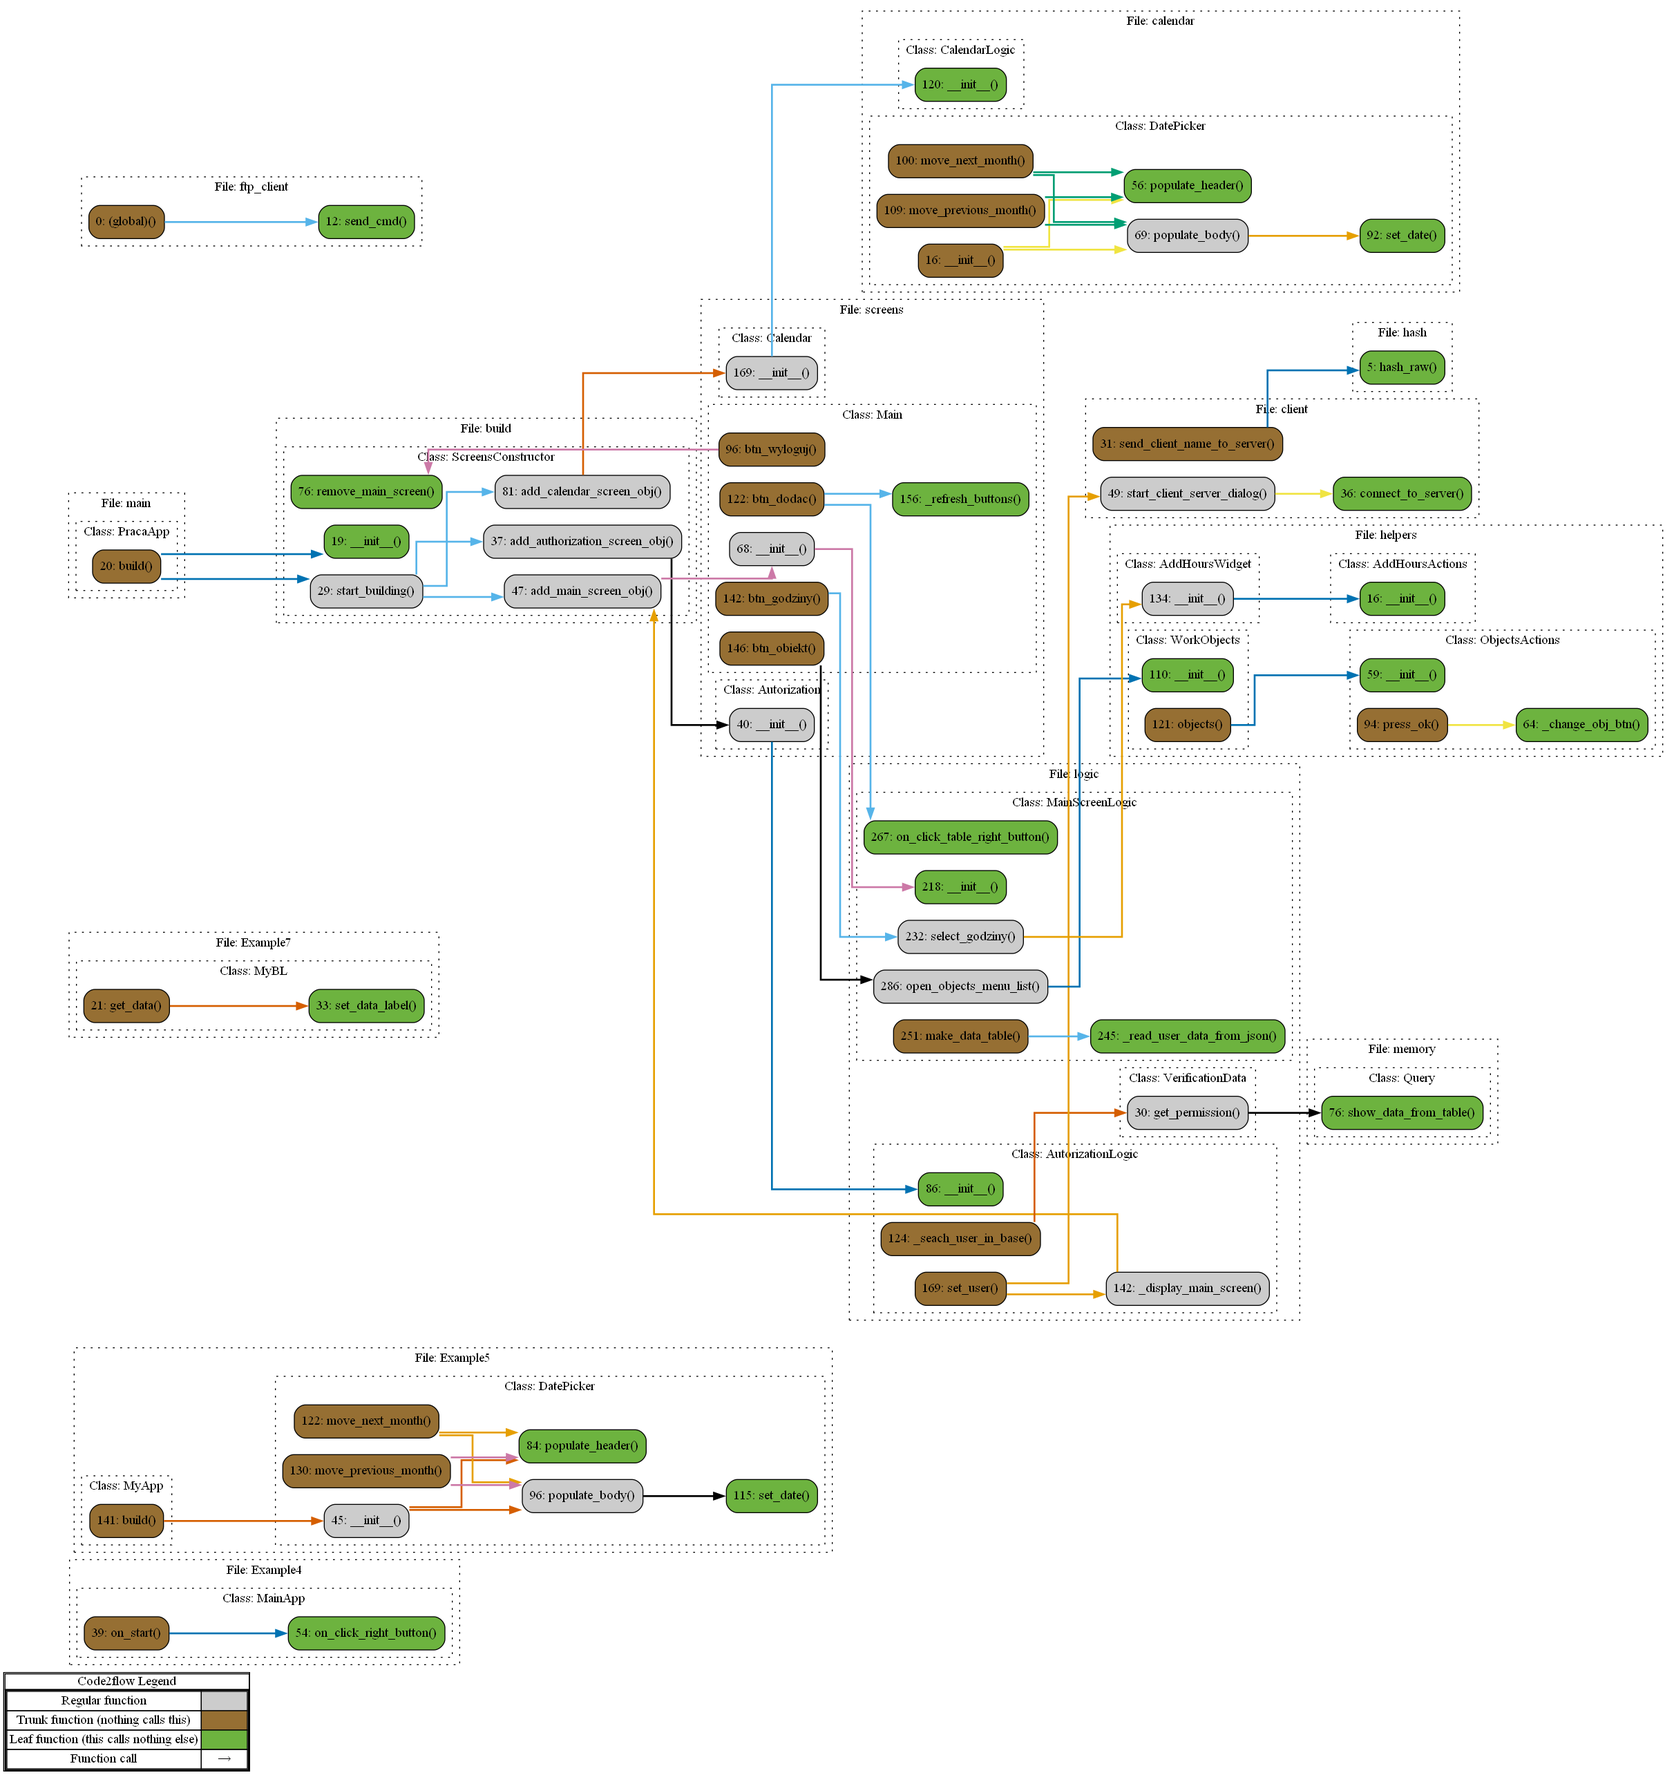
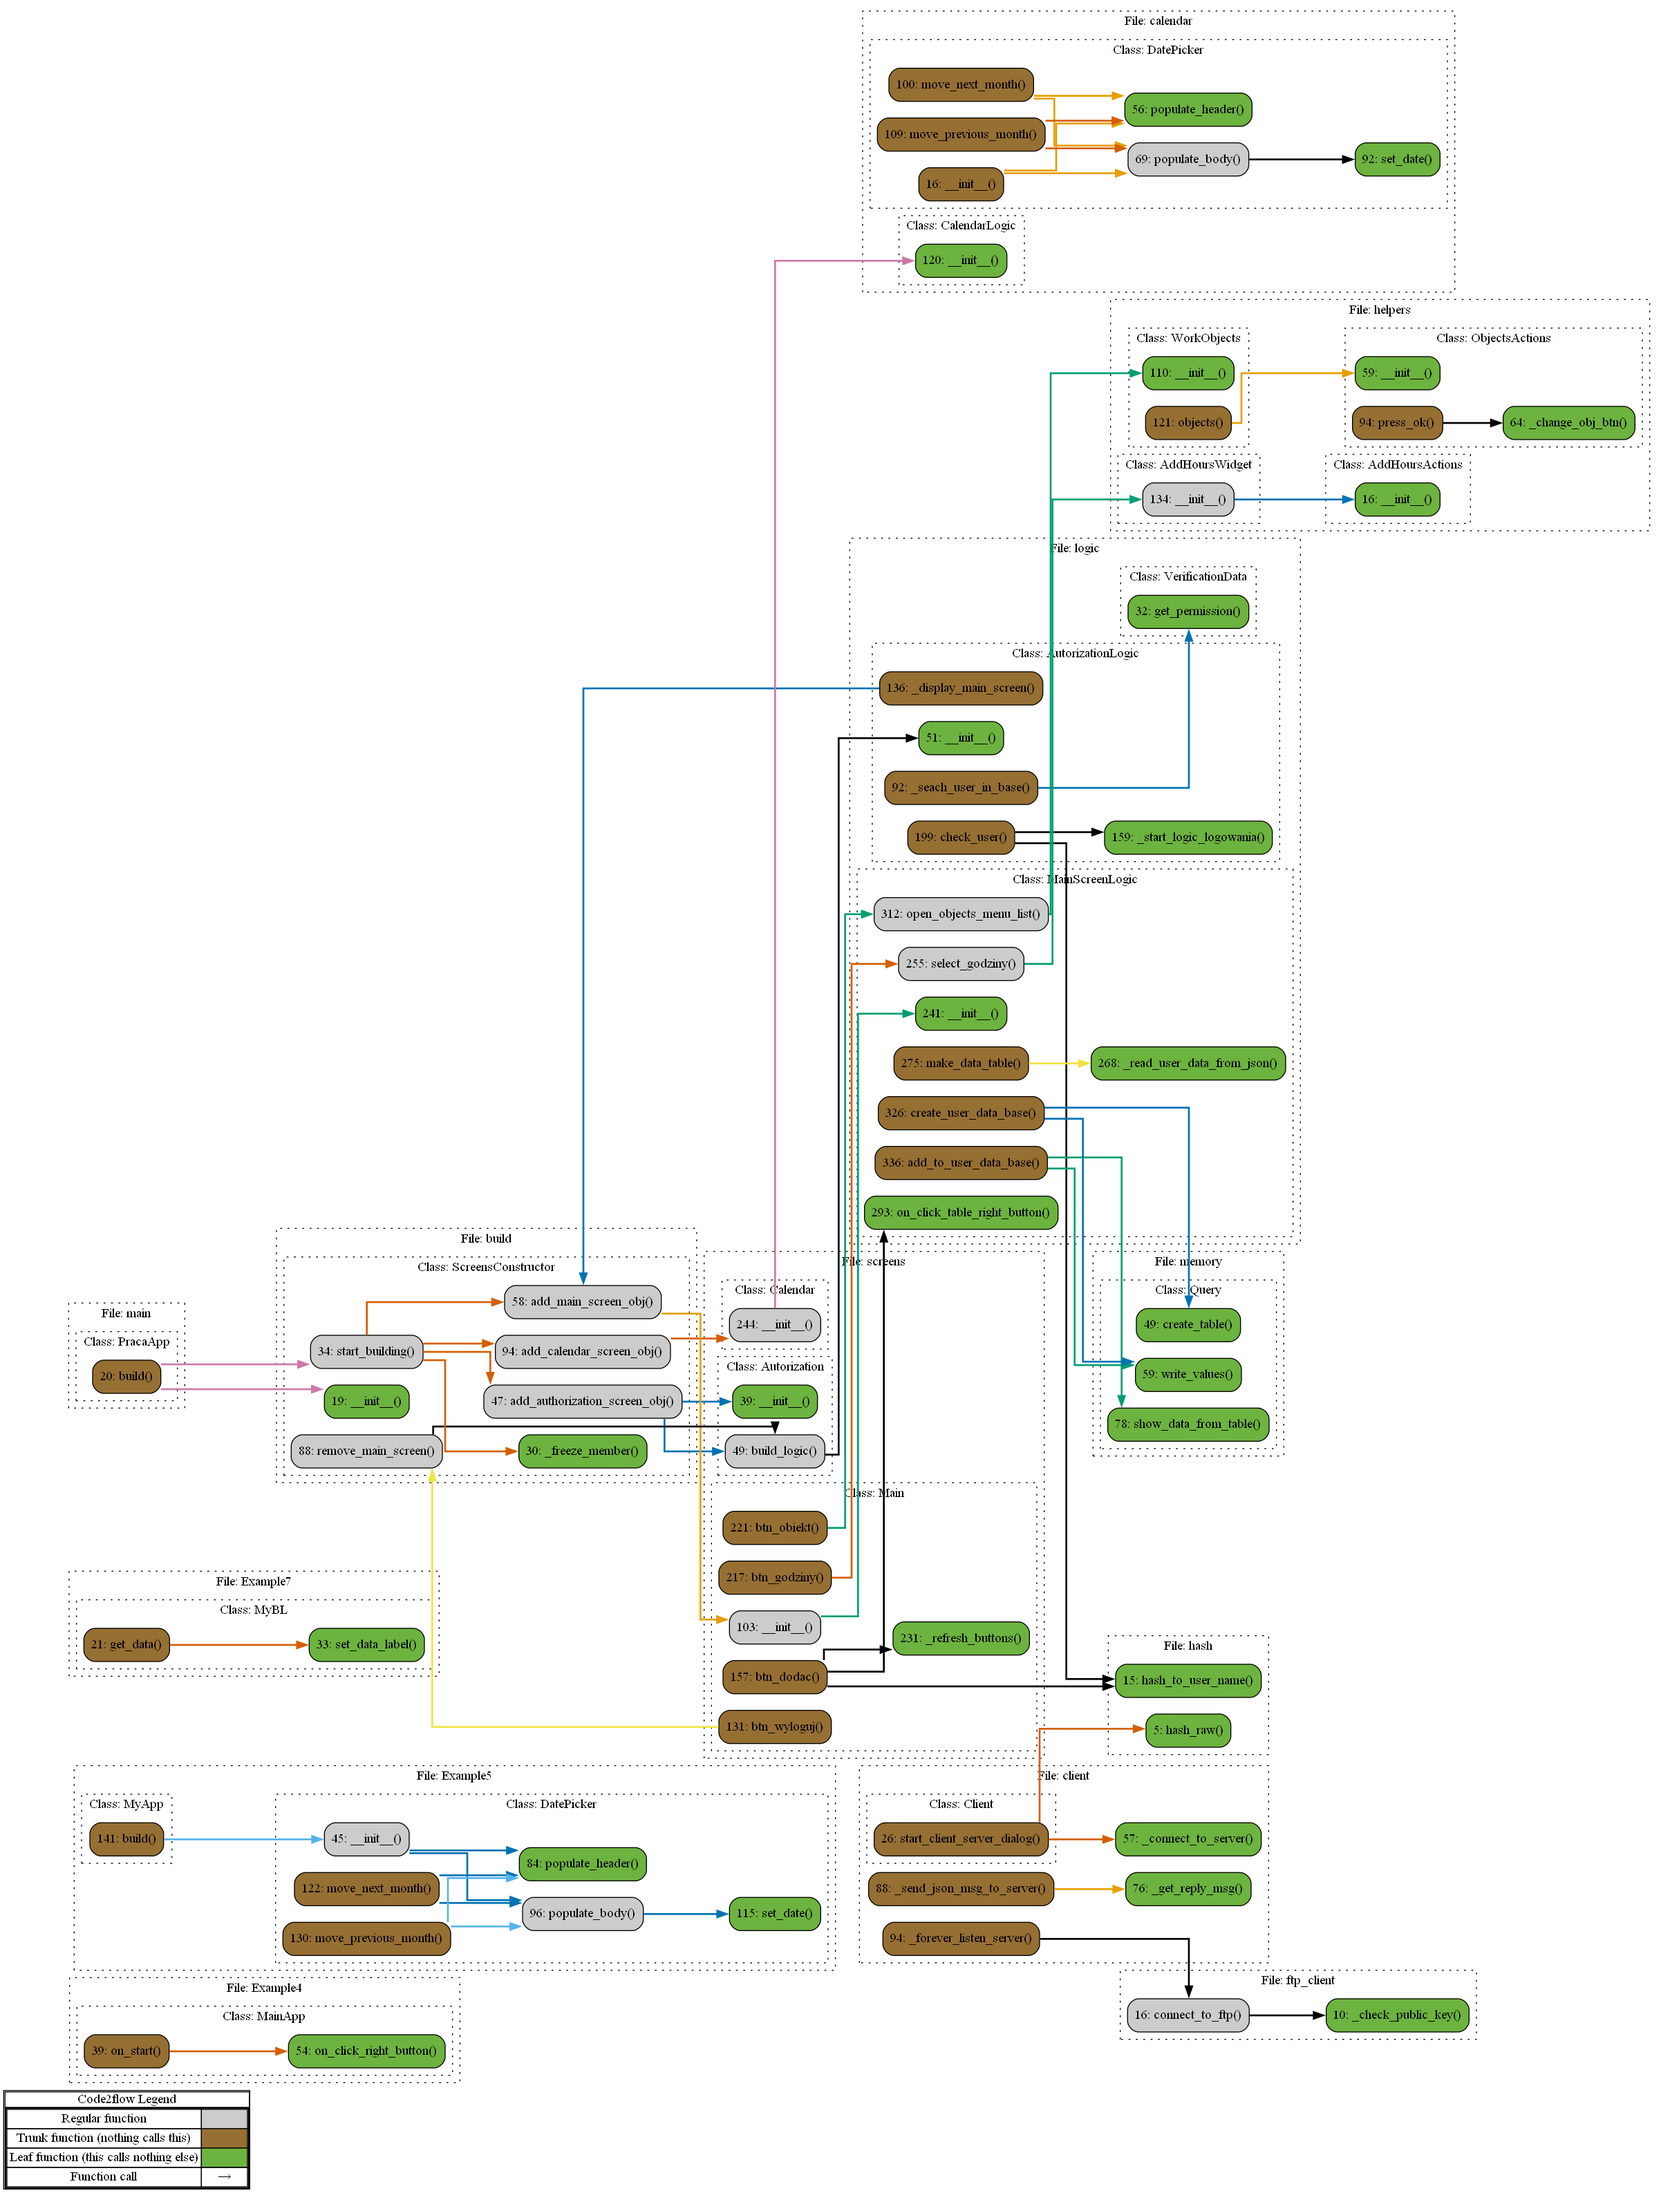
v0.0.91

diff --git a/dev/action/build.py b/dev/action/build.py
@@ -1,6 +1,9 @@
 import threading
+import os
+import json
 
 import dev.action as action
+import dev.config as config
 from dev.view.screens import Autorization, Main, Calendar
 
 
@@ -23,16 +26,57 @@ class ScreensConstructor:
         # Мои экраны
         self.authorization_screen = None # authorization_screen
         self.main_screen = None # main_screen
-        self.popup_screen = None # подвижная вкладка MDBackdropFrontLayer
         self.calendar = None # calendar_screen
+        # Отдельные виджеты
+        self.popup_screen = None # подвижная вкладка MDBackdropFrontLayer
+        # Remember me
+        self.freeze_file: json = None
+        self.path_to_freeze_file = None
+
+    def _freeze_member(self) -> bool:
+        action.logger.info('build.py: class ScreensConstructor _freeze_member()')
+        # список всех файлов в папке
+        files = os.listdir(config.PATH_TO_REMEMBER_ME)
+        # фильтрация файлов по расширению
+        json_files = [file for file in files if file.endswith('.json')]
+        
+        if len(json_files) == 0:
+            action.logger.info(f'DEBUG: Have NOT json files')
+            return False
+        
+        if len(json_files) == 1:
+            action.logger.info(f'DEBUG: Have json file {json_files[0]}')
+            self.path_to_freeze_file = config.PATH_TO_REMEMBER_ME + f'/{json_files[0]}'
+            with open(self.path_to_freeze_file, 'r') as file:
+                self.freeze_file = json.load(file)
+            return True
+
+        if len(json_files) > 1:
+            action.logger.info(f'DEBUG: Have json files {json_files}')
+            return False # если нет файлов или нужно выбирать
 
     def start_building(self):
-        "Первый запуск системы"
+        """
+        # Первый запуск системы
+        Последовательность создания экранов так же важена.
+        Вначале создается экран который и будет отображаться, а уже под ним создаются остальные
+        """
         action.logger.info('build.py: class ScreensConstructor start_building()')
-        self.add_authorization_screen_obj()
-        self.screen_manager.current = 'authorization_screen'
-        self.add_calendar_screen_obj()
-        self.add_main_screen_obj(user_name='', user_surname='', search_user_thread=None)
+
+        if self._freeze_member():
+            # если пользователь хочет чтобы приложение помнило его
+            # если в каталоге /db/freeze всего один файл
+            user_name = self.freeze_file['name']
+            user_surname = self.freeze_file['surname']
+            self.add_main_screen_obj(user_name=user_name, user_surname=user_surname, search_user_thread=None)
+            self.screen_manager.current = 'main_screen'
+            self.add_authorization_screen_obj()
+            self.add_calendar_screen_obj()
+        else:
+            self.add_authorization_screen_obj()
+            self.add_calendar_screen_obj()
+            self.add_main_screen_obj(user_name='', user_surname='', search_user_thread=None)
+            self.screen_manager.current = 'authorization_screen'
 
     def add_authorization_screen_obj(self):
         "Создаю и добавляю экран авторизации"
@@ -42,7 +86,7 @@ class ScreensConstructor:
                 screen_constructor = self,
                 screen_manager=self.screen_manager
             )
-        self.authorization_screen.build_logic()
+        self.authorization_screen.build_logic_object()
         self.screen_manager.add_widget(self.authorization_screen)
 
     def add_main_screen_obj( # main_screen
@@ -76,10 +120,17 @@ class ScreensConstructor:
             ###
 
     def remove_main_screen(self) -> None:
+        def remove_remember_me_file():
+            "Если есть файл, то удаляю"
+            action.logger.info('build.py: remove_main_screen() remove_remember_me_file()')
+            if os.path.isfile(self.path_to_freeze_file):
+                os.remove(self.path_to_freeze_file)
+
         action.logger.info('build.py: class ScreensConstructor remove_main_screen()')
         self.screen_manager.remove_widget(self.main_screen)
-        self.authorization_screen.build_logic()
+        self.authorization_screen.build_logic_object()
         self.main_screen = None
+        remove_remember_me_file()
 
     def add_calendar_screen_obj(self): # calendar_screen
         action.logger.info('build.py: class ScreensConstructor add_calendar_screen_obj()')

diff --git a/dev/action/logic.py b/dev/action/logic.py
@@ -96,11 +96,18 @@ class AutorizationLogic(VerificationData):
         """
         action.logger.info('logic.py: class AutorizationLogic(VerificationData) seach_user_in_base()')
         def remove_remember_me_file():
+            "Если есть файл, то удаляю"
             action.logger.info('logic.py: _seach_user_in_base() remove_remember_me_file()')
             path_to_json = config.PATH_TO_REMEMBER_ME + f'/{self.user_hash}.json'
             if os.path.isfile(path_to_json):
                 os.remove(path_to_json)
         
+        def write_remember_me_file():
+            self.screen_constructor.path_to_freeze_file = config.PATH_TO_REMEMBER_ME + f'/{self.user_hash}.json'
+            with open(self.screen_constructor.path_to_freeze_file, 'w') as file:
+                json.dump(options['remember_me'](self.login, self.password), file)
+
+
         if self.get_permission(self.login, self.password, self.user_hash): # проверяю пароль
             # прошли авторизацию
             self.authorization_obj.user_authorized = True
@@ -109,7 +116,8 @@ class AutorizationLogic(VerificationData):
                 # если есть файл с базой данных
                 # и если стоит галочка "запомнить меня"
                 action.logger.info(f'logic.py: _seach_user_in_base() have DB and checkbox')
-                pass
+                # запомнить стартовые данные пользователя
+                write_remember_me_file()
             else:
                 # если есть файл с базой данных
                 # но нет галочки "запомнить меня"
@@ -123,7 +131,7 @@ class AutorizationLogic(VerificationData):
                 # если нет файла, но
                 # стоит галочка "запомнить меня"
                 action.logger.info(f'logic.py: _seach_user_in_base() have NOT DB and have checkbox')
-                pass
+                write_remember_me_file()
             else:
                 # если нет файла базы данных
                 # и не стоит галочка
@@ -214,10 +222,6 @@ class AutorizationLogic(VerificationData):
 
             self._start_logic_logowania(remember_me)
 
-            # запомнить стартовые данные пользователя
-            if remember_me:
-                with open(config.PATH_TO_REMEMBER_ME + f'/{self.user_hash}.json', 'w') as file:
-                    json.dump(options['remember_me'](self.login, self.password), file)
         else:
             action.logger.warning(f"DEBUG: Have NOT Login and Password: '{_login}' '{_password}'")
 

diff --git a/dev/config.py b/dev/config.py
@@ -1,9 +1,20 @@
+from kivy.core.window import Window
+
+Window.top = 75
+Window.left = 75
+Window.size = (405, 810)
+
+from kivy.config import Config
+import os
+
+Config.set('kivy', 'log_dir', os.path.join(os.path.dirname(os.path.abspath(__file__)), os.path.abspath('./dev/static/logs')))
+
 from os.path import abspath
 
 PATH_TO_KV_FILE = abspath('./dev/view/praca.kv')
+PATH_TO_REMEMBER_ME = abspath('./dev/db/freeze')
 PATH_TO_USER_DB = abspath('./dev/db/user')
 PATH_TO_EMPLOYER_DB = abspath('./dev/db/rockbit.db') # только скачиваем с сервера
-PATH_TO_REMEMBER_ME = abspath('./dev/db')
 
 # PHONE_NUMBER = '48663215343' # Жека
 PHONE_NUMBER = '48577655470'
@@ -15,16 +26,6 @@ FIRST_TABLE = 'godziny'
 WORKER_TABLE = 'worker' # список работников фирмы
 PROJECT_TABLE = 'project' # список объектов для работников
 
-from kivy.core.window import Window
-
-Window.top = 75
-Window.left = 75
-Window.size = (405, 810)
-
-from kivy.config import Config
-import os
-
-Config.set('kivy', 'log_dir', os.path.join(os.path.dirname(os.path.abspath(__file__)), os.path.abspath('./dev/static/logs')))
 
 SERVER = "64.226.119.172"
 PORT = 1489 # порт к серверу, который принимает шифрованные сообщения

diff --git a/dev/view/screens.py b/dev/view/screens.py
@@ -46,7 +46,7 @@ class Autorization(MDScreen):
         self._remember_me = True # изначально стоит галочка Remember me
         self.logic = None
 
-    def build_logic(self):
+    def build_logic_object(self):
         self.logic = AutorizationLogic(
                 screen_constructor = self.screen_constructor,
                 screen_manager=self.screen_manager,
@@ -91,6 +91,7 @@ class Autorization(MDScreen):
             )
         set_user_thread.start()
         ### Отдельный поток позволяет сменить экран до окончания всех расчетов
+
 
 class Main(MDScreen):
     '''Главный экран данных на котором расположен интерфейс пользователя.

diff --git a/dev/static/doc/Поток данных.md b/dev/static/doc/Поток данных.md
@@ -5,7 +5,7 @@ ___
 
 Работодатель обновляет базы данных, работник подтягивает себе изменения.
 
-- **user.db** - база данных пользователей
+- **hash.db** - база данных пользователей
 	- **godziny** - таблица в которой ведется учет рабочих часов
 - **employer.db** - база данных от работодателя
 	- **worker** - список работников
@@ -17,7 +17,7 @@ ___
 		- **rockbit.db** - база данных от работодателя
 			- **worker** - список работников
 	- **/worker_base** - каталок баз данных работников
-		- **hash_123.db** - база данных работника
+		- **hash.db** - база данных работника
 			- **godziny** - таблица в которой ведется учет рабочих часов
 	- **/excel** - сгенерированные файлы excel из баз данных
 

diff --git a/readme.md b/readme.md
@@ -63,7 +63,7 @@ buildozer android debug
 
 android.permissions в файле buildozer.spec
 
-	android.permissions = READ_EXTERNAL_STORAGE, WRITE_EXTERNAL_STORAGE, SEND_SMS
+	android.permissions = INTERNET, READ_EXTERNAL_STORAGE, WRITE_EXTERNAL_STORAGE, SEND_SMS
 
 # Git
 
@@ -71,7 +71,7 @@ branch **master** - рабочая версия приложения
 
 branch **dev** - ветка текущей разработки
 
-### Клонировать ветку разработки dev
+### Клонировать ветку разработки dev в текущий каталог
 
 ```bash
 git clone -b dev https://github.com/dzmitry-dp/praca .
@@ -79,7 +79,7 @@ git clone -b dev https://github.com/dzmitry-dp/praca .
 	Username for 'https://github.com': dzmitry-dp
 	Password for 'https://dzmitry-dp@github.com': TOKEN
 
-### Слияние dev ветки проекта в dev ветку
+### Слияние удаленной dev ветки проекта в локальную dev ветку
 
 ```bash
 git pull branch_1:branch_2
